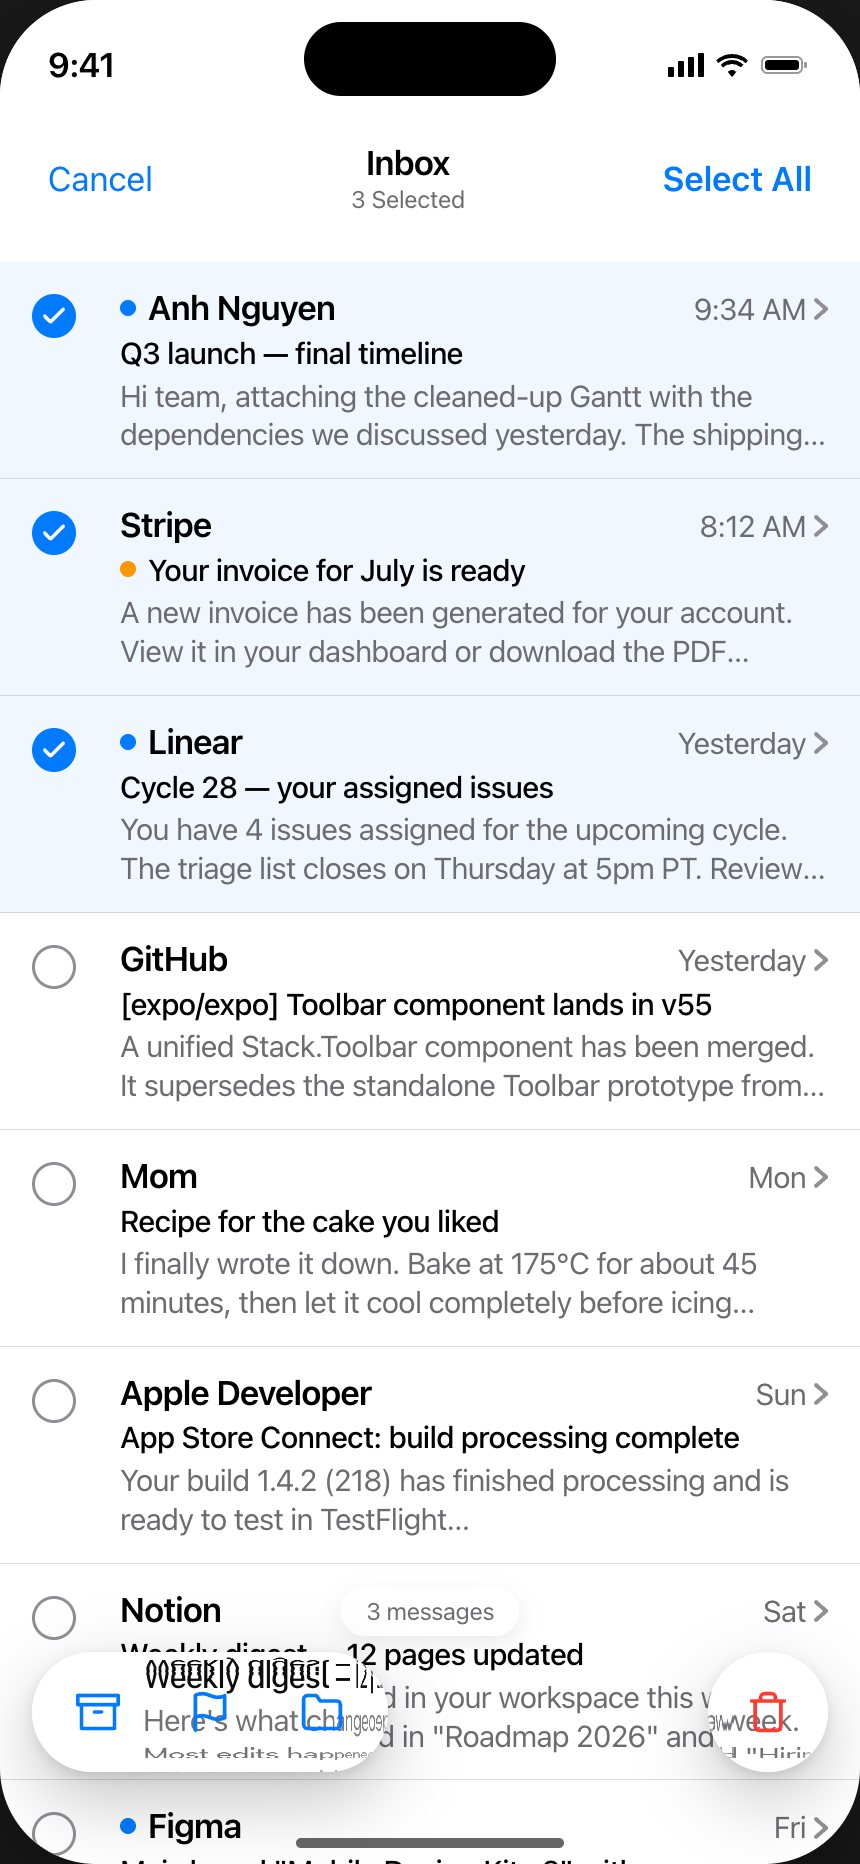
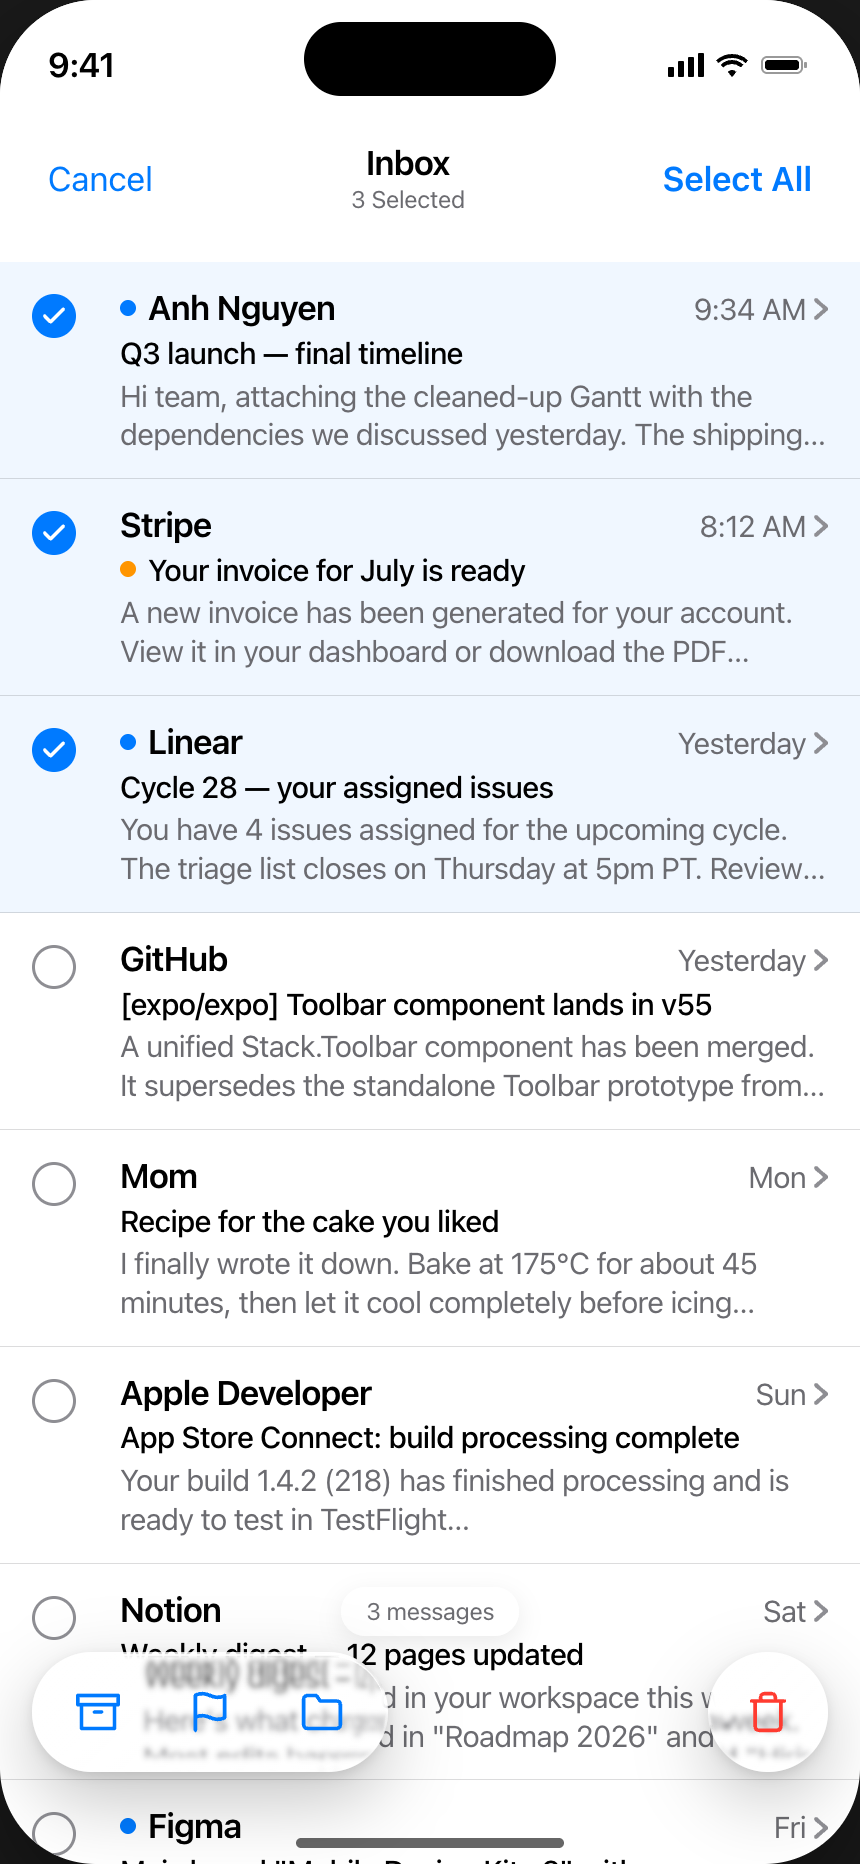
Add post-displacement blur to glass distortion filter
Chain feGaussianBlur after feDisplacementMap so the warped backdrop
is softened by the blur, instead of the blur itself getting distorted.
Each toolbar pill (primary group + destructive circle) now has its
own blurred glass surface bound to its geometry.

Changed region(s): [[0.1512, 0.8712, 0.4535, 0.9646], [0.8163, 0.9024, 0.907, 0.9335]]

diff --git a/examples/mail-edit-mode.html b/examples/mail-edit-mode.html
@@ -259,6 +259,7 @@
                     color-mix(in srgb, #FFFFFF 4%, transparent) 72%,
                     color-mix(in srgb, #FFFFFF 28%, transparent) 100%);
             backdrop-filter: url(#glass-distortion);
+            -webkit-backdrop-filter: blur(12px) saturate(160%);
             border: 1px solid color-mix(in srgb, #FFFFFF 40%, transparent);
             box-shadow:
                 0 14px 36px rgba(0, 0, 0, 0.22),
@@ -347,7 +348,10 @@
             </linearGradient>
         </defs><rect width="100" height="100" fill="url(%23x)"/><rect width="100" height="100" fill="url(%23y)" style="mix-blend-mode:screen"/></svg>'/>
         <feGaussianBlur in="map" stdDeviation="2" result="smoothed"/>
-        <feDisplacementMap in="SourceGraphic" in2="smoothed" scale="40" xChannelSelector="R" yChannelSelector="G"/>
+        <feDisplacementMap in="SourceGraphic" in2="smoothed" scale="40" xChannelSelector="R" yChannelSelector="G" result="displaced"/>
+        <!-- Blur applied AFTER displacement so the displaced backdrop
+             gets softened, instead of the blur itself being warped. -->
+        <feGaussianBlur in="displaced" stdDeviation="1.5"/>
       </filter>
     </svg>
     <div class="device">
